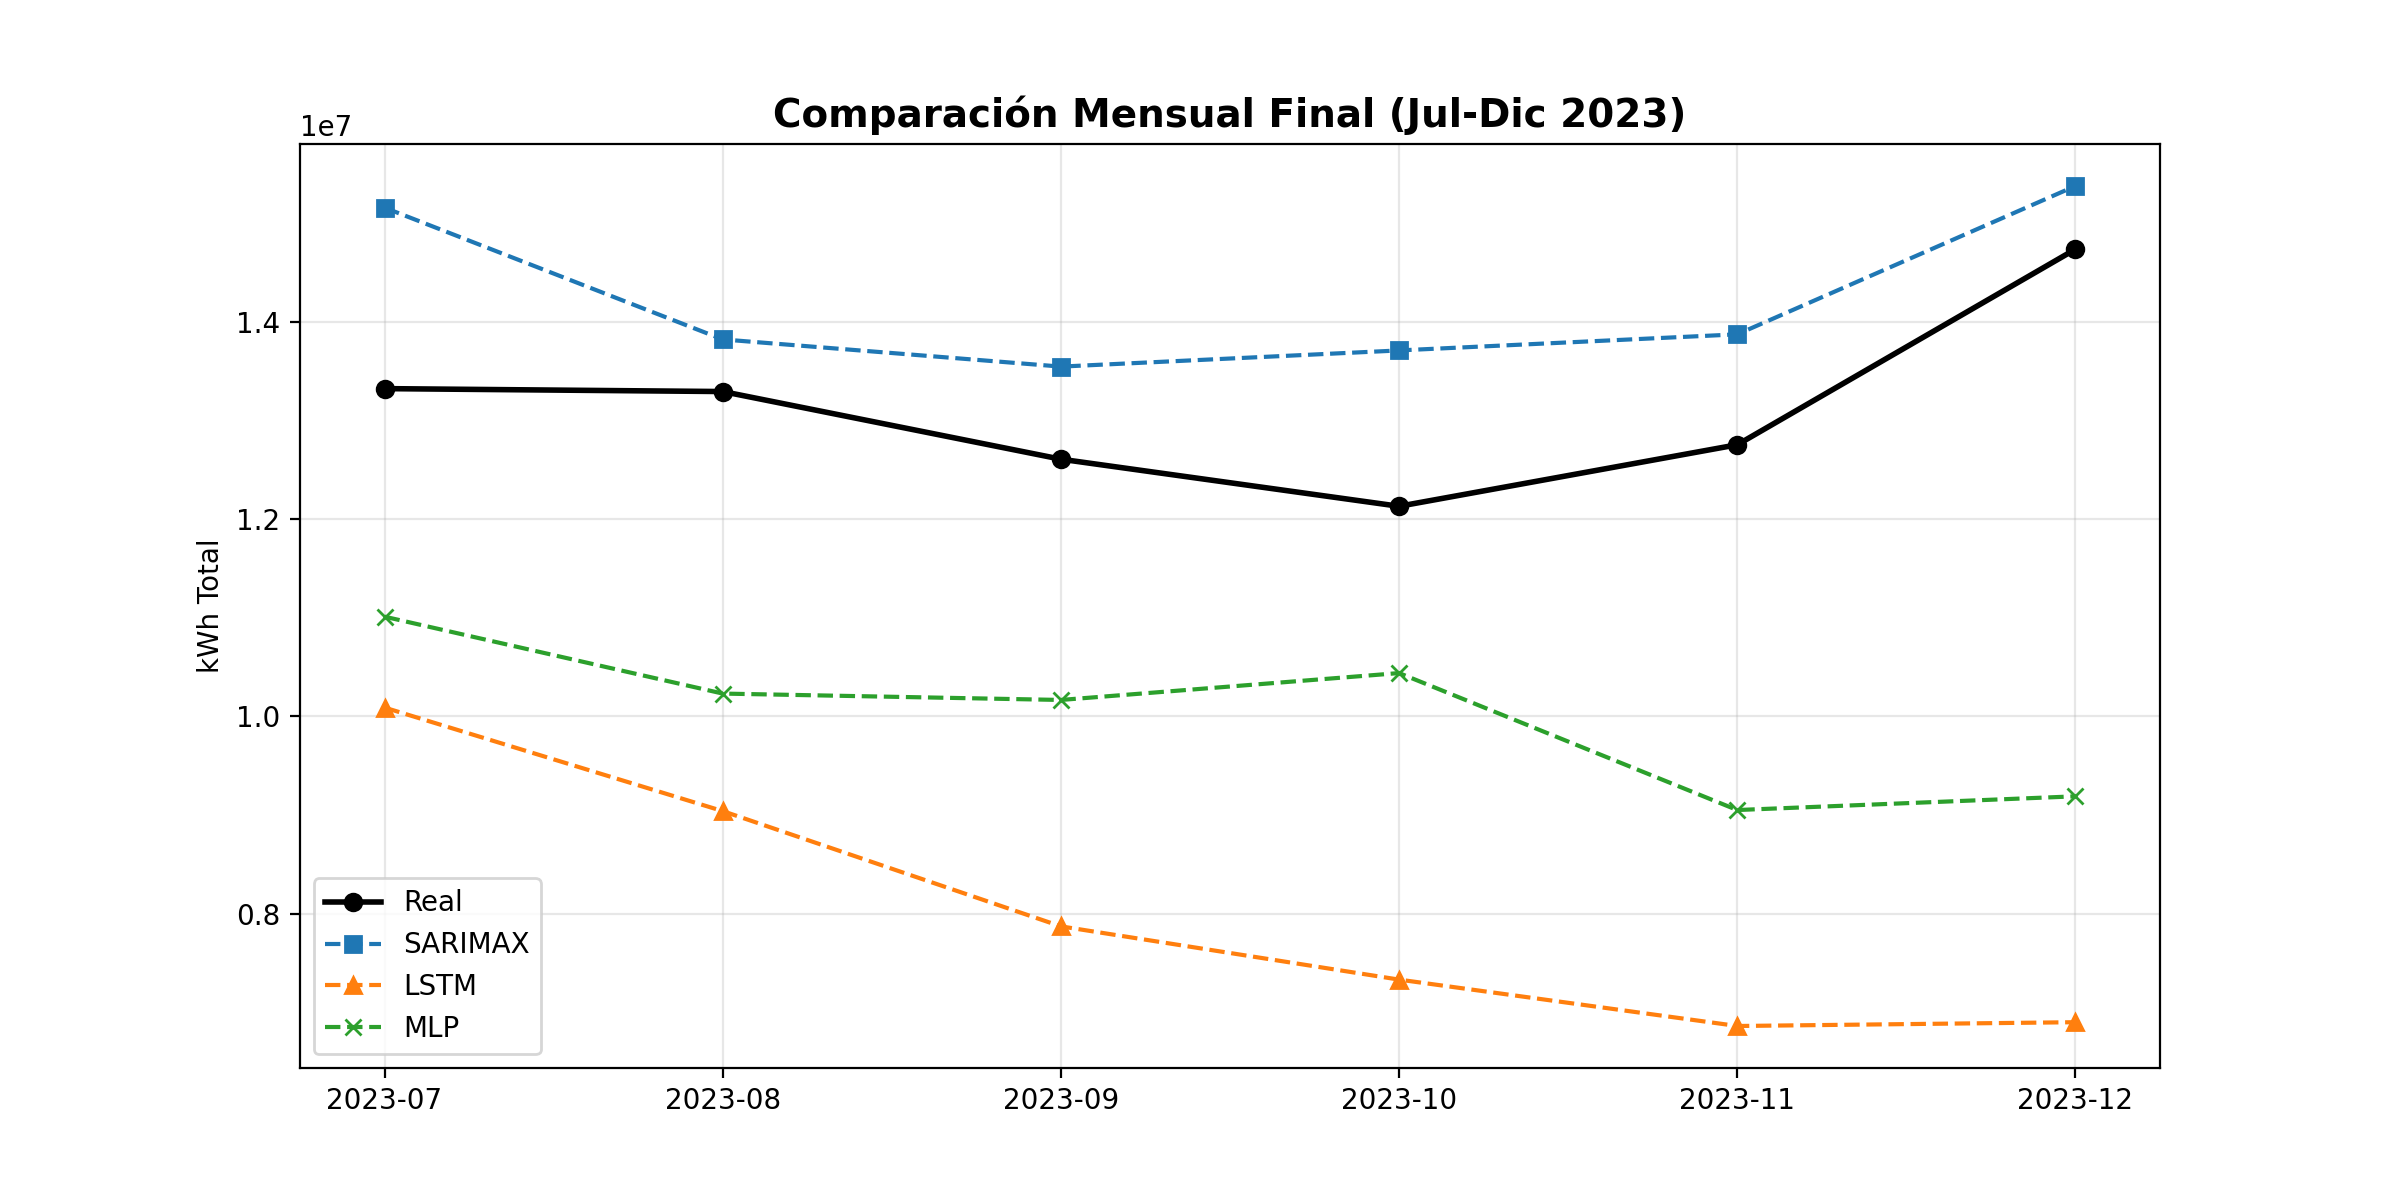
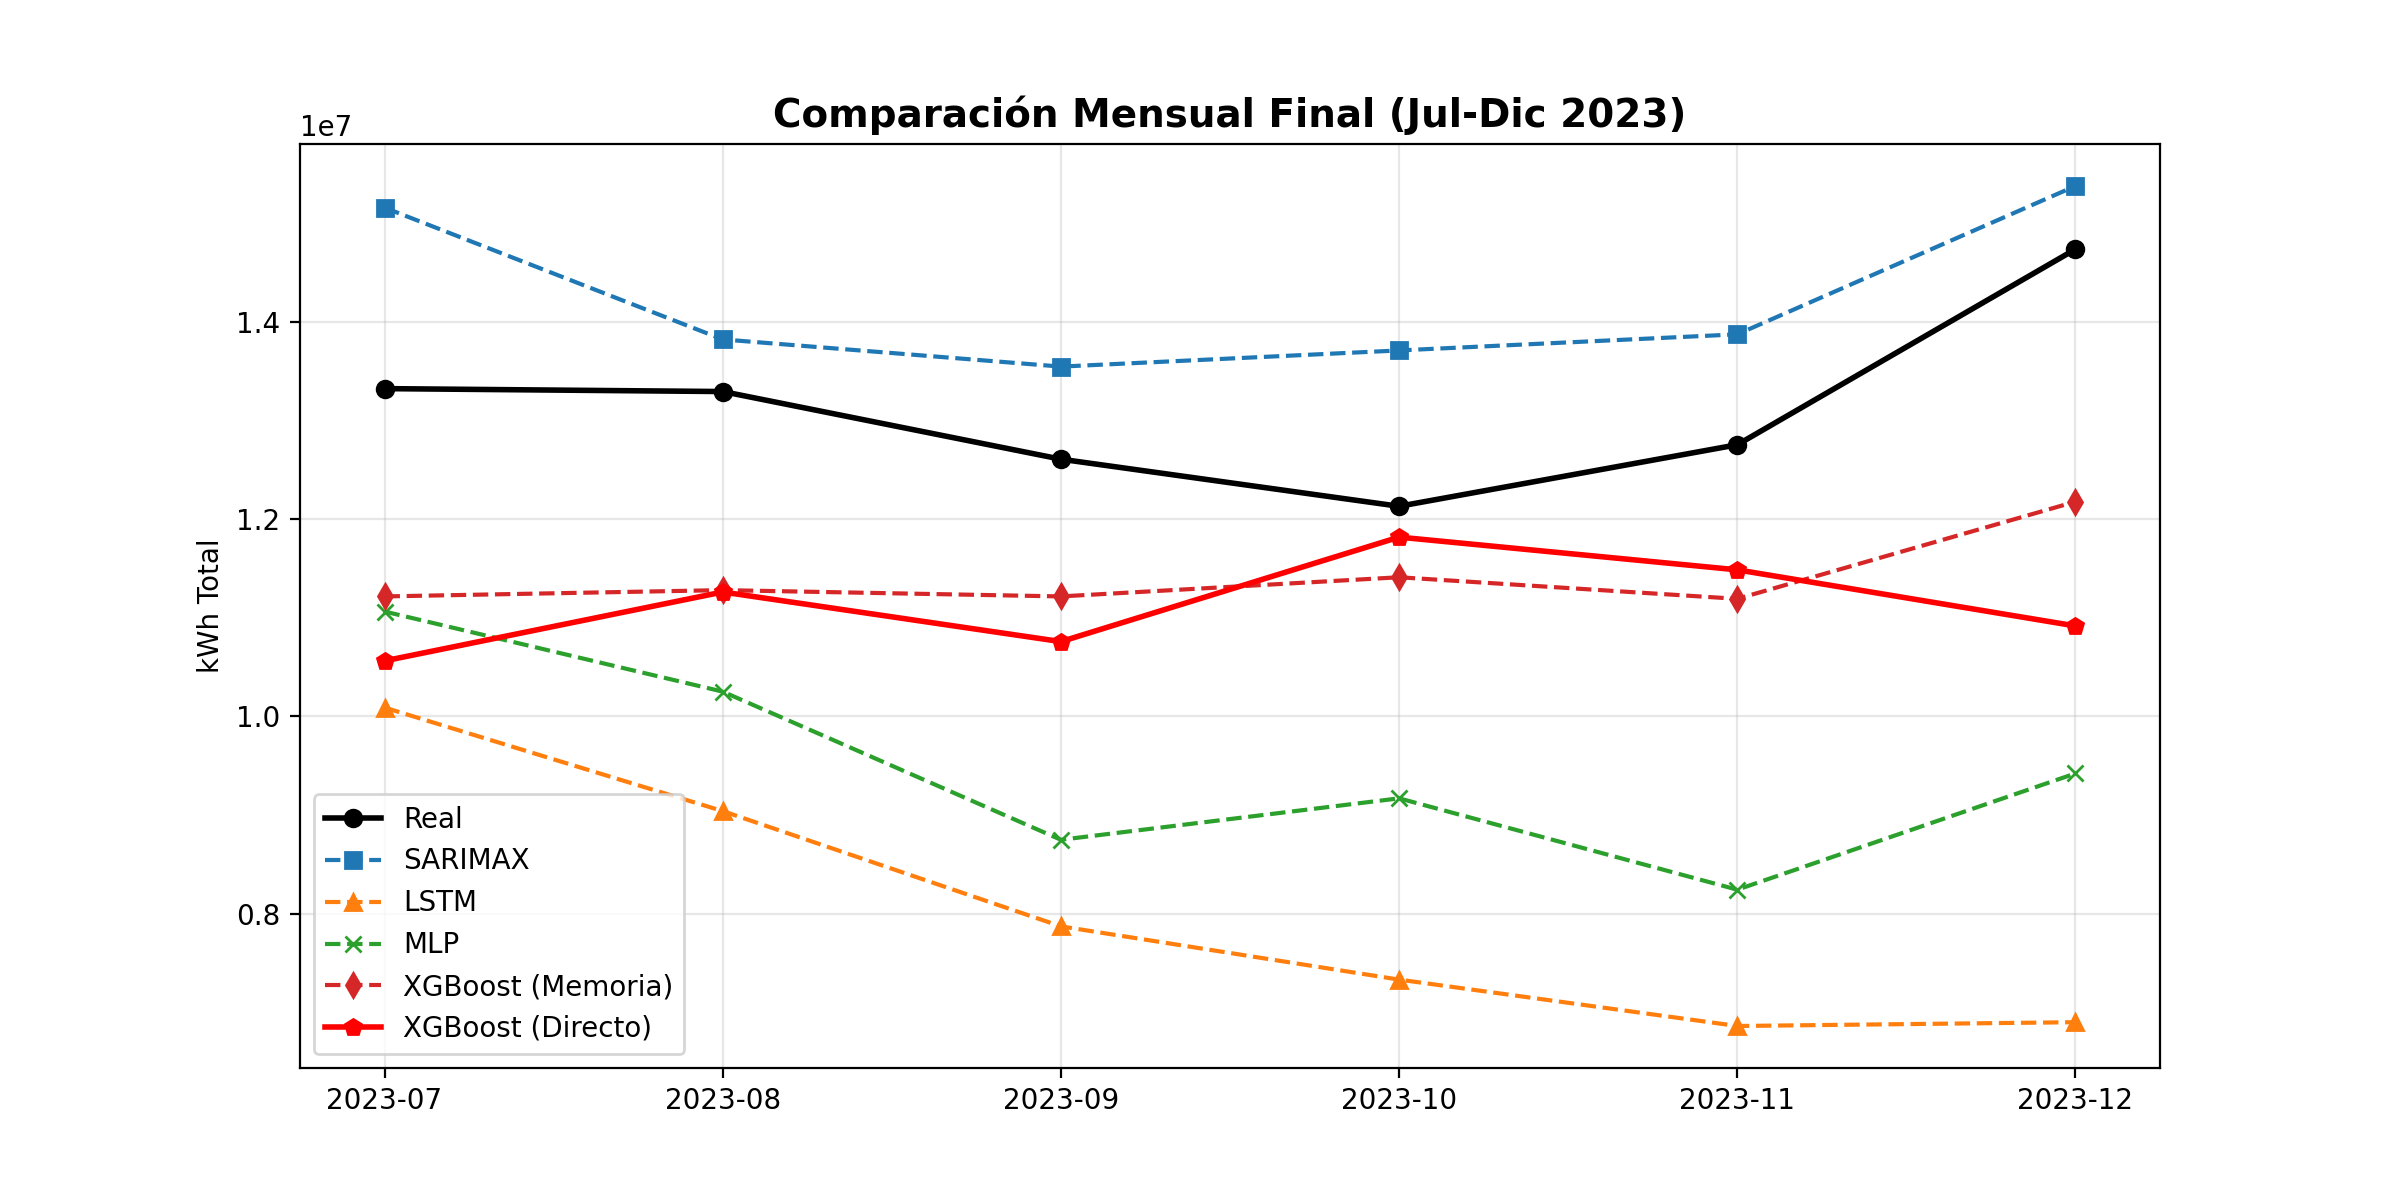
ACtualización comparacion mensual con ayudas

diff --git a/src/FInal_Monthly_comparison.py b/src/FInal_Monthly_comparison.py
@@ -10,6 +10,7 @@ import torch.nn as nn
 from torch.utils.data import Dataset, DataLoader
 from sklearn.preprocessing import MinMaxScaler
 from statsmodels.tsa.statespace.sarimax import SARIMAX
+import xgboost as xgb
 
 warnings.filterwarnings('ignore')
 
@@ -26,9 +27,10 @@ OUTPUT_WINDOW = 1  # Predecir 1 mes a la vez
 BATCH_SIZE = 4     # Batch pequeño por pocos datos
 EPOCHS = 200
 
-# Importamos MLP
+# Importamos MLP y XGBoost
 sys.path.insert(0, BASE_DIR)
 from MLP_model import SolarMLP
+from XGBOOST import train_xgboost, predict_xgboost_recursive
 # Reusamos la lógica de LSTM pero ligera
 from LSTM_model import SolarLSTM, get_device
 
@@ -108,15 +110,25 @@ def main():
     loader = DataLoader(MonthlyDataset(X_train, y_train), batch_size=BATCH_SIZE, shuffle=True)
     
     # --- 3. LSTM ---
-    print("[2/3] Entrenando LSTM Mensual...")
-    # Usamos una versión pequeña del LSTM (1 capa, 32 unidades)
+    print("[2/5] Entrenando LSTM Mensual...")
     lstm_model = SolarLSTM(n_features=n_feat, hidden_size=32, num_layers=1, output_window=1)
     lstm_model = train_nn(lstm_model, loader, device)
     
     # --- 4. MLP ---
-    print("[3/3] Entrenando MLP Mensual...")
-    mlp_model = SolarMLP(input_size=INPUT_WINDOW * n_feat, hidden_size=64)
+    print("[3/5] Entrenando MLP Mensual Complejo...")
+    mlp_model = SolarMLP(input_size=INPUT_WINDOW * n_feat, hidden_size=256)
     mlp_model = train_nn(mlp_model, loader, device)
+    
+    # --- 5. XGBoost (Recursivo con Memoria) ---
+    print("[4/5] Entrenando XGBoost con Memoria (12m)...")
+    xgb_model = train_xgboost(X_train, y_train)
+    
+    # --- 6. XGBoost (Directo - Solo Clima actual) ---
+    print("[5/5] Entrenando XGBoost Directo (Solo Clima actual)...")
+    X_train_direct = s_train[:, :-1]
+    y_train_direct = s_train[:, -1]
+    xgb_direct_model = xgb.XGBRegressor(n_estimators=200, max_depth=4, learning_rate=0.05, random_state=42)
+    xgb_direct_model.fit(X_train_direct, y_train_direct)
     
     # --- 5. Predicción Recursiva para Redes ---
     def predict_recursive(model, initial_context, steps):
@@ -143,6 +155,12 @@ def main():
     
     lstm_scaled_preds = predict_recursive(lstm_model, s_train, 6)
     mlp_scaled_preds = predict_recursive(mlp_model, s_train, 6)
+    xgb_scaled_preds = predict_xgboost_recursive(xgb_model, s_train, 6, s_test, s_train, INPUT_WINDOW, n_feat)
+    
+    # Predicción Directa XGBoost (Solo pasar el clima de los meses de test de s_test)
+    # s_test contiene los 6 meses de test al final
+    X_test_direct = s_test[-6:, :-1]
+    xgb_direct_scaled_preds = xgb_direct_model.predict(X_test_direct)
     
     # Des-escalar
     def denormalize(p_scaled):
@@ -152,6 +170,8 @@ def main():
     
     lstm_final = denormalize(lstm_scaled_preds)
     mlp_final = denormalize(mlp_scaled_preds)
+    xgb_final = denormalize(xgb_scaled_preds)
+    xgb_direct_final = denormalize(xgb_direct_scaled_preds)
     
     # --- 6. Resultados ---
     results_df = pd.DataFrame({
@@ -159,7 +179,9 @@ def main():
         'Real': test_df['kWh_Total'],
         'SARIMAX': sarima_preds,
         'LSTM': lstm_final,
-        'MLP': mlp_final
+        'MLP': mlp_final,
+        'XGB_Mem': xgb_final,
+        'XGB_Direct': xgb_direct_final
     })
     
     print("\n" + "-"*70)
@@ -173,6 +195,8 @@ def main():
     plt.plot(results_df['Mes'], results_df['SARIMAX'], marker='s', label='SARIMAX', linestyle='--')
     plt.plot(results_df['Mes'], results_df['LSTM'], marker='^', label='LSTM', linestyle='--')
     plt.plot(results_df['Mes'], results_df['MLP'], marker='x', label='MLP', linestyle='--')
+    plt.plot(results_df['Mes'], results_df['XGB_Mem'], marker='d', label='XGBoost (Memoria)', linestyle='--')
+    plt.plot(results_df['Mes'], results_df['XGB_Direct'], marker='p', label='XGBoost (Directo)', linestyle='-', color='red', linewidth=2)
     
     plt.title('Comparación Mensual Final (Jul-Dic 2023)', fontsize=14, fontweight='bold')
     plt.ylabel('kWh Total')
@@ -183,7 +207,32 @@ def main():
     plt.savefig(plot_path, dpi=200)
     plt.close()
     
+    # --- 7. Guardar Métricas en CSV Automáticamente ---
+    from sklearn.metrics import mean_squared_error, mean_absolute_error
+    
+    def calculate_mape(y_true, y_pred):
+        return np.mean(np.abs((y_true - y_pred) / y_true)) * 100
+
+    metrics = []
+    for model_name in ['SARIMAX', 'LSTM', 'MLP', 'XGB_Mem', 'XGB_Direct']:
+        y_true = results_df['Real']
+        y_pred = results_df[model_name]
+        rmse = np.sqrt(mean_squared_error(y_true, y_pred))
+        mae = mean_absolute_error(y_true, y_pred)
+        mape = calculate_mape(y_true, y_pred)
+        metrics.append({'Modelo': model_name, 'RMSE': rmse, 'MAE': mae, 'MAPE (%)': mape})
+    
+    metrics_df = pd.DataFrame(metrics)
+    metrics_path = os.path.join(OUTPUT_DIR, 'monthly_metrics.csv')
+    metrics_df.to_csv(metrics_path, index=False)
+    
+    print("\n" + "-"*70)
+    print("  MÉTRICAS COMPARATIVAS")
+    print("-"*70)
+    print(metrics_df.to_string(index=False))
+    
     print(f"\n  Gráfica guardada en: {plot_path}")
+    print(f"  Métricas guardadas en: {metrics_path}")
     print("="*70)
 
 if __name__ == '__main__':

diff --git a/src/Monthly_Direct_Regression.py b/src/Monthly_Direct_Regression.py
@@ -1,0 +1,86 @@
+import os
+import pandas as pd
+import numpy as np
+import matplotlib.pyplot as plt
+import xgboost as xgb
+from sklearn.metrics import mean_squared_error, mean_absolute_error
+from sklearn.preprocessing import StandardScaler
+
+# Configuración
+BASE_DIR = os.path.dirname(os.path.abspath(__file__))
+DATA_PATH = os.path.join(BASE_DIR, '..', 'data', 'monthly-data.csv')
+OUTPUT_DIR = os.path.join(BASE_DIR, '..', 'EDA', 'MONTHLY_REGRESSION')
+os.makedirs(OUTPUT_DIR, exist_ok=True)
+
+def run_direct_regression():
+    print("="*70)
+    print("  EXPERIMENTO: REGRESIÓN DIRECTA (SIN VENTANA TEMPORAL)")
+    print("="*70)
+    
+    # 1. Cargar datos
+    df = pd.read_csv(DATA_PATH)
+    
+    # Características: Solo clima (mean y std)
+    # NO incluimos kWh como entrada
+    features = [c for c in df.columns if c not in ['Mes', 'kWh_Total']]
+    target = 'kWh_Total'
+    
+    # 2. Split (90% Train, 10% Test) -> Últimos 6 meses para test
+    train_df = df.iloc[:-6]
+    test_df = df.iloc[-6:]
+    
+    X_train, y_train = train_df[features], train_df[target]
+    X_test, y_test = test_df[features], test_df[target]
+    
+    # 3. Escalamiento (Opcional para XGBoost pero bueno para consistencia)
+    scaler = StandardScaler()
+    X_train_scaled = scaler.fit_transform(X_train)
+    X_test_scaled = scaler.transform(X_test)
+    
+    # 4. Entrenar XGBoost (Regresión Pura)
+    print(f"  Entrenando XGBoost con {len(features)} variables climáticas...")
+    model_xgb = xgb.XGBRegressor(
+        n_estimators=200,
+        max_depth=4,
+        learning_rate=0.05,
+        random_state=42
+    )
+    model_xgb.fit(X_train_scaled, y_train)
+    
+    # 5. Predicción Directa (No recursiva, solo pasar el clima del mes)
+    preds_xgb = model_xgb.predict(X_test_scaled)
+    
+    # 6. Resultados y Métricas
+    results = pd.DataFrame({
+        'Mes': test_df['Mes'],
+        'Real': y_test.values,
+        'XGB_Direct': preds_xgb
+    })
+    
+    rmse = np.sqrt(mean_squared_error(y_test, preds_xgb))
+    mape = np.mean(np.abs((y_test.values - preds_xgb) / y_test.values)) * 100
+    
+    print("\n" + "-"*70)
+    print("  RESULTADOS REGRESIÓN DIRECTA (XGBoost)")
+    print("-"*70)
+    print(results.to_string(index=False))
+    print(f"\n  RMSE: {rmse:.2f}")
+    print(f"  MAPE: {mape:.2f}%")
+    
+    # 7. Gráfica
+    plt.figure(figsize=(10, 5))
+    plt.plot(results['Mes'], results['Real'], marker='o', label='Real', color='black')
+    plt.plot(results['Mes'], results['XGB_Direct'], marker='d', label='XGBoost Directo', linestyle='--')
+    plt.title('Regresión Directa: Clima del Mes -> kWh del Mes')
+    plt.legend()
+    plt.grid(True, alpha=0.3)
+    
+    plot_path = os.path.join(OUTPUT_DIR, 'direct_regression_results.png')
+    plt.savefig(plot_path, dpi=150)
+    plt.close()
+    
+    print(f"\n  Gráfica guardada en: {plot_path}")
+    print("="*70)
+
+if __name__ == '__main__':
+    run_direct_regression()

diff --git a/src/MLP_model.py b/src/MLP_model.py
@@ -6,28 +6,34 @@ import torch.nn as nn
 # ──────────────────────────────────────────────────────────────────────
 class SolarMLP(nn.Module):
     """
-    Red Neuronal Densa (MLP) para predicción mensual.
-    Recibe una ventana de meses y devuelve el kWh del siguiente mes.
+    Red Neuronal Densa (MLP) de Alta Complejidad.
+    Incluye múltiples capas ocultas y Dropout.
     """
-    def __init__(self, input_size, hidden_size=64, dropout=0.2):
+    def __init__(self, input_size, hidden_size=256, dropout=0.3):
         super(SolarMLP, self).__init__()
         
-        # El input_size será: (INPUT_WINDOW * N_FEATURES)
-        self.network = nn.Sequential(
-            nn.Linear(input_size, hidden_size),
-            nn.BatchNorm1d(hidden_size),
-            nn.ReLU(),
-            nn.Dropout(dropout),
-            
-            nn.Linear(hidden_size, hidden_size // 2),
-            nn.ReLU(),
-            nn.Dropout(dropout),
-            
-            nn.Linear(hidden_size // 2, 1) # Salida: 1 solo valor (kWh del mes siguiente)
-        )
+        self.fc1 = nn.Linear(input_size, hidden_size)
+        self.bn1 = nn.BatchNorm1d(hidden_size)
+        self.relu1 = nn.ReLU()
+        self.drop1 = nn.Dropout(dropout)
+        
+        self.fc2 = nn.Linear(hidden_size, hidden_size)
+        self.bn2 = nn.BatchNorm1d(hidden_size)
+        self.relu2 = nn.ReLU()
+        self.drop2 = nn.Dropout(dropout)
+        
+        self.fc3 = nn.Linear(hidden_size, hidden_size // 2)
+        self.bn3 = nn.BatchNorm1d(hidden_size // 2)
+        self.relu3 = nn.ReLU()
+        
+        self.output = nn.Linear(hidden_size // 2, 1)
         
     def forward(self, x):
-        # x tiene forma (batch, seq_len, features)
-        # Para un MLP plano, debemos "aplanar" la secuencia
-        x = x.view(x.size(0), -1) # (batch, seq_len * features)
-        return self.network(x)
+        # Aplanar (batch, seq, feat) -> (batch, seq * feat)
+        x = x.view(x.size(0), -1)
+        
+        x = self.drop1(self.relu1(self.bn1(self.fc1(x))))
+        x = self.drop2(self.relu2(self.bn2(self.fc2(x))))
+        x = self.relu3(self.bn3(self.fc3(x)))
+        
+        return self.output(x)

diff --git a/src/XGBOOST.py b/src/XGBOOST.py
@@ -1,0 +1,44 @@
+import xgboost as xgb
+import numpy as np
+
+def train_xgboost(X_train, y_train):
+    """
+    Entrena un modelo XGBoost Regressor para predicción mensual.
+    """
+    # Aplanamos X_train (batch, seq, feat) -> (batch, seq * feat)
+    X_train_flat = X_train.reshape(X_train.shape[0], -1)
+    
+    model = xgb.XGBRegressor(
+        n_estimators=100,
+        max_depth=5,
+        learning_rate=0.05,
+        subsample=0.8,
+        colsample_bytree=0.8,
+        objective='reg:squarederror',
+        random_state=42
+    )
+    
+    model.fit(X_train_flat, y_train)
+    return model
+
+def predict_xgboost_recursive(model, initial_context, steps, s_test, s_train, input_window, n_feat):
+    """
+    Predicción recursiva usando XGBoost.
+    """
+    current_context = initial_context.copy()
+    preds = []
+    
+    for i in range(steps):
+        # Preparar input
+        inp = current_context[-input_window:].reshape(1, -1)
+        p = model.predict(inp)[0]
+        preds.append(p)
+        
+        # Inyectar para la siguiente predicción (usando exógenas futuras de s_test)
+        future_idx = len(s_train) + i
+        if future_idx < len(s_test):
+            next_row = s_test[future_idx].copy()
+            next_row[-1] = p # Reemplazar con predicción
+            current_context = np.vstack([current_context, next_row])
+            
+    return np.array(preds)

diff --git a/README.md b/README.md
@@ -17,6 +17,9 @@ El repositorio está organizado de la siguiente manera:
 - `EDA/`: Visualizaciones generadas por los scripts de análisis:
     - `XM/`: Análisis detallado de la planta solar (perfiles por hora, promedios diarios, etc.).
     - `NASA_xm_correlation/`: Heatmaps de correlación y gráficos de dispersión.
+    - `FINAL_COMPARISON/`: Resultados de la comparativa final horaria (SARIMAX vs LSTM).
+    - `MONTHLY_COMPARISON/`: Resultados de la batalla final mensual (SARIMAX vs LSTM vs MLP).
+    - `LSTM_grid_search/`: Comparativa de rendimiento según ventana de memoria (7, 14, 30 días).
 - `output/`: Directorio para modelos entrenados y resultados técnicos.
 
 ## Metodología de Procesamiento
@@ -83,3 +86,40 @@ Para garantizar la robustez del modelo, se utilizan tres fuentes principales de 
 Este archivo es el resultado de ejecutar `dataset_maker.py`. Combina las variables de NASA POWER con la generación real de XM.
 - **Rango:** 06:00 AM a 05:00 PM (12 registros por día).
 - **Contenido:** `Fecha_Hora`, `Irradiancia_It`, `Temperatura_Tt`, `Humedad_Ht`, `Viento_Wt`, `kWh`.
+
+## Fase de Modelado Avanzado
+
+En esta fase se implementaron modelos de aprendizaje profundo (Deep Learning) y estadísticos para predecir la generación eléctrica.
+
+### 1. Modelos Horarios (High-Complexity LSTM)
+Se diseñó un modelo **LSTM Bidireccional** de alta complejidad con las siguientes características:
+- **Arquitectura:** 3 capas de LSTM Bidireccional, 128 neuronas por capa, con `LayerNormalization` y `Dropout(0.3)`.
+- **Ventana de Entrada:** 168 horas (14 días solares).
+- **Características:** Variables exógenas (Clima) + Codificación Cíclica (Hora y Mes).
+
+#### Estrategia de Evaluación
+Se utilizaron dos enfoques de validación:
+1. **Simple Recursive (Ciego):** El modelo predice un bloque de 12h, inyecta su propia predicción como entrada para el siguiente bloque y así sucesivamente hasta completar el semestre (10% test). Es la prueba más difícil pues no hay corrección externa.
+2. **Sliding Window (Día a Día):** El modelo predice 12h, pero recibe el dato real de generación para actualizar su memoria antes de predecir el siguiente día. Ideal para operación en tiempo real.
+
+### 2. Modelos Mensuales (Batalla Final)
+Se creó un dataset mensual (`monthly-data.csv`) con promedios y desviaciones estándar de las variables climáticas para comparar tres arquitecturas:
+
+| Modelo | Descripción | Ventana de Memoria |
+| :--- | :--- | :--- |
+| **SARIMAX** | Estadístico clásico con estacionalidad de 12 meses. | Historial completo |
+| **XGBoost** | Gradient Boosting optimizado para datos tabulares. | 12 meses |
+| **MLP** | Red Densa (Perceptrón) de alta complejidad con BatchNorm. | 12 meses |
+| **LSTM** | Red recurrente ligera optimizada para series cortas. | 12 meses |
+
+### 3. Resultados y Hallazgos Principales
+
+#### Comparativa Mensual (Test Jul-Dic 2023)
+| Modelo | MAPE (%) | Conclusión |
+| :--- | :--- | :--- |
+| **SARIMAX** | **8.56%** | El líder en estabilidad y precisión a largo plazo. |
+| **XGBoost** | **12.92%** | Excelente desempeño, el mejor de los modelos no estadísticos. |
+| **MLP** | **27.72%** | Inestable en predicción recursiva a pesar de su complejidad. |
+| **LSTM** | **38.81%** | Muy sensible al ruido en ventanas mensuales pequeñas. |
+
+**Lección aprendida:** Para proyecciones de largo alcance (meses) con datasets pequeños, los modelos estadísticos como SARIMAX son superiores. El Deep Learning destaca en la escala horaria cuando se cuenta con retroalimentación diaria (Sliding Window).
